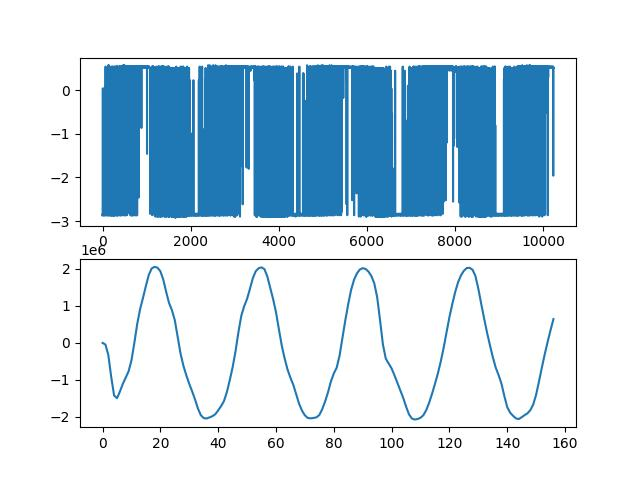
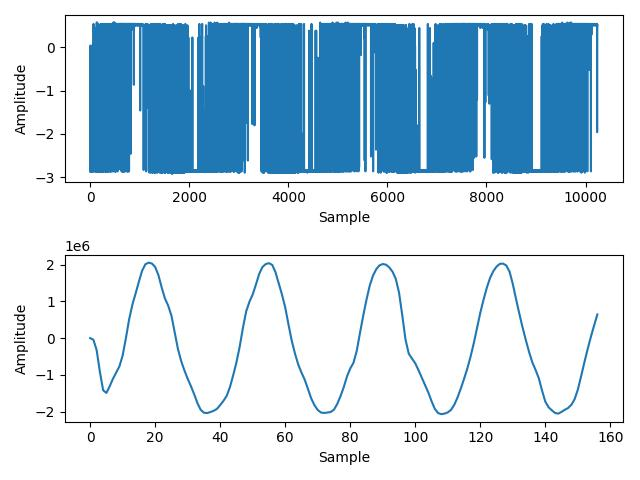
Prettify test suite

diff --git a/sim/test_runner.py b/sim/test_runner.py
@@ -1,4 +1,4 @@
-"""
+r"""
 --------------------------------------------------------------------------------
 --       ___  _________  _____ ______   ________     
 --      |\  \|\___   ___\\   _ \  _   \|\   __  \    
@@ -60,6 +60,8 @@ def purge_results(request):
         src.unlink()
 
 
+@allure.epic("Digital signal processing")
+@allure.feature("CIC decimation filter")
 class TestCIC:
     """Wrapper class for CIC filter tests"""
 
@@ -117,6 +119,7 @@ class TestCIC:
             "test_dir": projdir / "sim_build",
         }
 
+    @allure.story("Impulse response")
     @pytest.mark.parametrize(
         "cic_order,comb_taps,dec_ratio", cic_generic_combos, ids=(lambda val: val)
     )
@@ -124,9 +127,9 @@ class TestCIC:
         """Parametrised impulse response test runner
 
         Args:
-            cic_order (int): Instance of a set of CIC order values
-            comb_taps (int): Instance of a set of comb taps count values
-            dec_ratio (int): Instance of a set of decimation ratio values
+            cic_order (int): CIC order
+            comb_taps (int): Differential comb delay
+            dec_ratio (int): Decimation ratio
         """
         generics = {
             "cic_order": cic_order,
@@ -143,6 +146,7 @@ class TestCIC:
                 **self.test_kwargs, test_filter="test_impulse", parameters=generics
             )
 
+    @allure.story("Step resonse")
     @pytest.mark.parametrize(
         "cic_order,comb_taps,dec_ratio", cic_generic_combos, ids=(lambda val: val)
     )
@@ -150,9 +154,9 @@ class TestCIC:
         """Parametrised step response test runner
 
         Args:
-            cic_order (int): Instance of a set of CIC order values
-            comb_taps (int): Instance of a set of comb taps count values
-            dec_ratio (int): Instance of a set of decimation ratio values
+            cic_order (int): CIC order
+            comb_taps (int): Differential comb delay
+            dec_ratio (int): Decimation ratio
         """
         generics = {
             "cic_order": cic_order,
@@ -169,6 +173,7 @@ class TestCIC:
                 **self.test_kwargs, test_filter="test_step", parameters=generics
             )
 
+    @allure.story("PDM bitstream")
     def test_pdm(self):
         """PDM test runner with fixed, close-to-real-world filter parameters"""
         generics = {
@@ -179,6 +184,10 @@ class TestCIC:
             "s_axis_data_width": 2,
             "m_axis_data_width": 2 + 3 * ceil(log2(2 * 64)),
         }
+        allure.dynamic.parameter("cic_order", generics["cic_order"])
+        allure.dynamic.parameter("comb_taps", generics["comb_taps"])
+        allure.dynamic.parameter("dec_ratio", generics["dec_ratio"])
+
         with allure.step("Build"):
             runner.build(**self.build_kwargs, always=True, parameters=generics)
         with allure.step("Test"):

diff --git a/sim/cic_decimator.py b/sim/cic_decimator.py
@@ -1,4 +1,4 @@
-"""
+r"""
 --------------------------------------------------------------------------------
 --       ___  _________  _____ ______   ________     
 --      |\  \|\___   ___\\   _ \  _   \|\   __  \    
@@ -159,6 +159,11 @@ async def test_pdm(dut):
 
     plt.subplot(211)
     plt.plot(ser)
+    plt.gca().set_xlabel("Sample")
+    plt.gca().set_ylabel("Amplitude")
     plt.subplot(212)
     plt.plot(out)
+    plt.gca().set_xlabel("Sample")
+    plt.gca().set_ylabel("Amplitude")
+    plt.tight_layout()
     plt.savefig(datadir / "io1.jpg")
